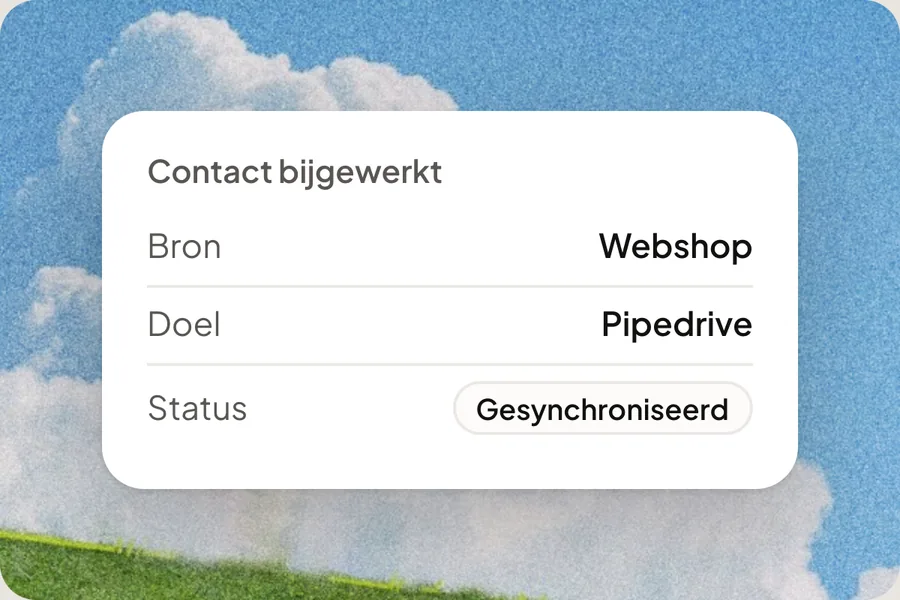
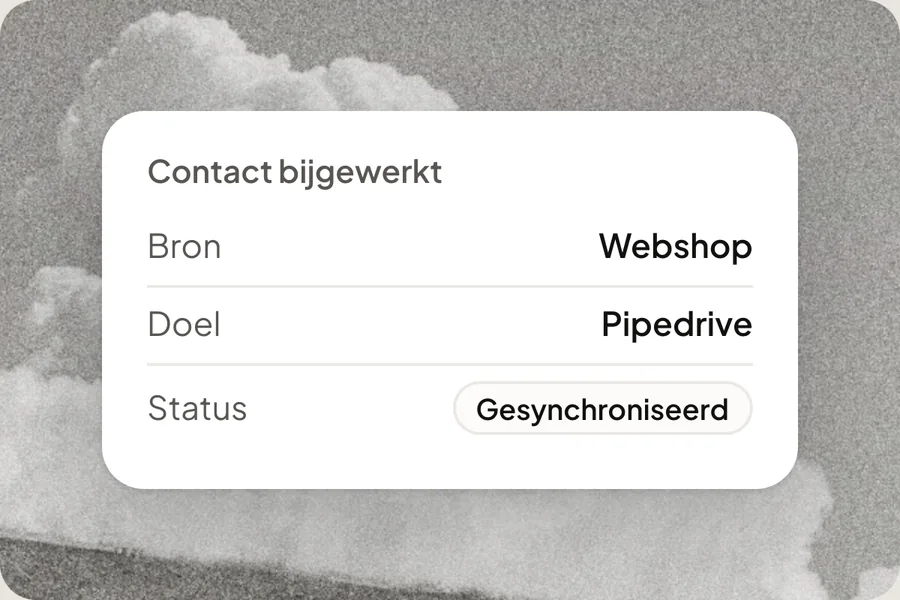
Agent-page branche tabs review round + homepage slider photo to warm duotone
Agent pages (Sal's review of the branche tabs), both call-agent.html and
e-mail-agent.html:
- "Bekijk alle branches op de Templates-pagina →" moves from a section-
  level <p> below the tab block into each panel's copy column, directly
  under the button (new .pill-panel-copy .link-arrow rule: own line).
- Tighter crop: windows open 60px above the key node instead of a full
  node-gap of bare arrow. Call flows 400px tall (was 470); e-mail flows
  keep 470 but trimmed at the bottom.
- Branche tab heads get .icon-tile glyphs (wrench / scissors / shopping
  bag / utensils), same treatment as the page's cards.
- Voice agent hero sub rewritten in a different direct-response device:
  "Elke oproep wordt aangenomen. Ook op de ladder, in gesprek of na
  sluitingstijd. De agent plant de afspraak in of legt een terugbelverzoek
  vast. U belt terug wanneer het u uitkomt."

Homepage slider (Sal: "the colours pop, not consistent with the brand"):
the nine assets/workflows/*.webp re-rendered with the field/cloud photo
as a warm duotone in the site's own tokens (ink / ink-3 / bg), grain and
darkening unchanged, white UI cards untouched. Baked into the assets, no
runtime filter. The homepage is monochrome again.

style.css ?v= → 20260829-3 sitewide. QA'd in Chromium desktop and WebKit
iPhone: link/button alignment measured, panels intact, slider track
geometry unchanged (4,660px / 57s), all images decode.

Claude-Session: https://claude.ai/code/session_01Vn5QfdcwPwdgmnFrY9tAxf

diff --git a/call-agent.html b/call-agent.html
@@ -9,7 +9,7 @@
   <link rel="preconnect" href="https://fonts.googleapis.com" />
   <link rel="preconnect" href="https://fonts.gstatic.com" crossorigin />
   <link href="https://fonts.googleapis.com/css2?family=Plus+Jakarta+Sans:wght@400;500;600;700;800&family=Instrument+Serif:ital@1&family=Inter+Tight:wght@600;700&display=swap" rel="stylesheet" />
-  <link rel="stylesheet" href="css/style.css?v=20260829-2" />
+  <link rel="stylesheet" href="css/style.css?v=20260829-3" />
   <link rel="stylesheet" href="css/workflow-canvas.css?v=20260829-2" />
   <link rel="icon" href="assets/icon-192.png?v=20260804-3" />
   <link rel="shortcut icon" href="assets/icon-192.png?v=20260804-3" />
@@ -88,7 +88,7 @@
     <!-- ================= Hero ================= -->
     <section class="hero container lp-hero hero-tight-bottom">
       <h1>Nooit meer een gemiste oproep.</h1>
-      <p class="hero-sub">Geen nieuwe centrale. Geen extra personeel. Geen voicemail die niemand terugluistert.</p>
+      <p class="hero-sub">Elke oproep wordt aangenomen. Ook op de ladder, in gesprek of na sluitingstijd. De agent plant de afspraak in of legt een terugbelverzoek vast. U belt terug wanneer het u uitkomt.</p>
       <div class="hero-actions lp-cta-block">
         <a href="https://my.mowi.agency/aanmelden" class="btn-primary" data-event="Signup Click">Start gratis</a>
         <span class="lp-cta-micro">Geen betaalgegevens nodig.</span>
@@ -204,16 +204,17 @@
           <div class="pill-panels">
             <div class="pill-panel pill-panel-split" id="ca-loodgieter" role="tabpanel" aria-labelledby="tab-ca-loodgieter">
               <div class="pill-panel-copy">
-                <div class="pill-panel-copy-head"><div class="placeholder-icon" aria-hidden="true"></div><span>Loodgieter</span></div>
+                <div class="pill-panel-copy-head"><span class="icon-tile" aria-hidden="true"><svg viewBox="0 0 24 24" fill="none" stroke="currentColor" stroke-width="1.75" stroke-linecap="round" stroke-linejoin="round"><path d="M14.7 6.3a1 1 0 0 0 0 1.4l1.6 1.6a1 1 0 0 0 1.4 0l3.77-3.77a6 6 0 0 1-7.94 7.94l-6.91 6.91a2.12 2.12 0 0 1-3-3l6.91-6.91a6 6 0 0 1 7.94-7.94l-3.76 3.76z"/></svg></span><span>Loodgieter</span></div>
                 <h3>Spoed of afspraak, meteen herkend</h3>
                 <p>Neemt elke oproep aan, herkent een lekkage, storing of gaslucht en handelt dat als spoed af — voor een routineverzoek plant de agent zelf onderhoud of een keuring in.</p>
                 <a href="https://my.mowi.agency/aanmelden" class="btn-primary" data-event="Signup Click">Start gratis</a>
+                <a href="/templates" class="link-arrow">Bekijk alle branches op de Templates-pagina →</a>
               </div>
 
               <!-- Static workflow picture (generated, 2026-08-29): the call-agent.loodgieter flow from /templates,
                    verbatim content, cut off to its middle, no JS. Decorative — the copy on the left
                    says the same thing. Regenerate from templates.html rather than hand-editing. -->
-              <div class="wf-canvas wf-canvas-static pill-panel-visual" style="--wf-win:470px;--wf-off:510px" aria-hidden="true">
+              <div class="wf-canvas wf-canvas-static pill-panel-visual" style="--wf-win:400px;--wf-off:580px" aria-hidden="true">
                 <div class="wf-viewport"><div class="wf-stage" style="width:520px;height:1368px">
             <svg class="wf-edges" width="520" height="1368" aria-hidden="true">
               <defs>
@@ -277,16 +278,17 @@
             </div>
             <div class="pill-panel pill-panel-split" id="ca-kapper" role="tabpanel" aria-labelledby="tab-ca-kapper" hidden>
               <div class="pill-panel-copy">
-                <div class="pill-panel-copy-head"><div class="placeholder-icon" aria-hidden="true"></div><span>Kapper</span></div>
+                <div class="pill-panel-copy-head"><span class="icon-tile" aria-hidden="true"><svg viewBox="0 0 24 24" fill="none" stroke="currentColor" stroke-width="1.75" stroke-linecap="round" stroke-linejoin="round"><circle cx="6" cy="6" r="3"/><circle cx="6" cy="18" r="3"/><path d="M8.12 8.12 12 12M20 4 8.12 15.88M14.8 14.8 20 20"/></svg></span><span>Kapper</span></div>
                 <h3>Boekt de afspraak, of beantwoordt de vraag</h3>
                 <p>Vraagt welke behandeling het is en voor wie, checkt de beschikbaarheid en stelt zelf een tijd voor — of beantwoordt een vraag uit de kennisbank.</p>
                 <a href="https://my.mowi.agency/aanmelden" class="btn-primary" data-event="Signup Click">Start gratis</a>
+                <a href="/templates" class="link-arrow">Bekijk alle branches op de Templates-pagina →</a>
               </div>
 
               <!-- Static workflow picture (generated, 2026-08-29): the call-agent.kapper flow from /templates,
                    verbatim content, cut off to its middle, no JS. Decorative — the copy on the left
                    says the same thing. Regenerate from templates.html rather than hand-editing. -->
-              <div class="wf-canvas wf-canvas-static pill-panel-visual" style="--wf-win:470px;--wf-off:510px" aria-hidden="true">
+              <div class="wf-canvas wf-canvas-static pill-panel-visual" style="--wf-win:400px;--wf-off:580px" aria-hidden="true">
                 <div class="wf-viewport"><div class="wf-stage" style="width:520px;height:1368px">
             <svg class="wf-edges" width="520" height="1368" aria-hidden="true">
               <defs>
@@ -350,16 +352,17 @@
             </div>
             <div class="pill-panel pill-panel-split" id="ca-webshop" role="tabpanel" aria-labelledby="tab-ca-webshop" hidden>
               <div class="pill-panel-copy">
-                <div class="pill-panel-copy-head"><div class="placeholder-icon" aria-hidden="true"></div><span>Webshop</span></div>
+                <div class="pill-panel-copy-head"><span class="icon-tile" aria-hidden="true"><svg viewBox="0 0 24 24" fill="none" stroke="currentColor" stroke-width="1.75" stroke-linecap="round" stroke-linejoin="round"><path d="M6 2 3 6v14a2 2 0 0 0 2 2h14a2 2 0 0 0 2-2V6l-3-4Z"/><path d="M3 6h18M16 10a4 4 0 0 1-8 0"/></svg></span><span>Webshop</span></div>
                 <h3>Orderstatus, direct doorgegeven</h3>
                 <p>Vraagt naar het ordernummer of e-mailadres, zoekt de bestelling op en geeft de status direct door — wordt niets gevonden, dan legt de agent een terugbelverzoek vast.</p>
                 <a href="https://my.mowi.agency/aanmelden" class="btn-primary" data-event="Signup Click">Start gratis</a>
+                <a href="/templates" class="link-arrow">Bekijk alle branches op de Templates-pagina →</a>
               </div>
 
               <!-- Static workflow picture (generated, 2026-08-29): the call-agent.webshop flow from /templates,
                    verbatim content, cut off to its middle, no JS. Decorative — the copy on the left
                    says the same thing. Regenerate from templates.html rather than hand-editing. -->
-              <div class="wf-canvas wf-canvas-static pill-panel-visual" style="--wf-win:470px;--wf-off:710px" aria-hidden="true">
+              <div class="wf-canvas wf-canvas-static pill-panel-visual" style="--wf-win:400px;--wf-off:780px" aria-hidden="true">
                 <div class="wf-viewport"><div class="wf-stage" style="width:520px;height:1368px">
             <svg class="wf-edges" width="520" height="1368" aria-hidden="true">
               <defs>
@@ -423,16 +426,17 @@
             </div>
             <div class="pill-panel pill-panel-split" id="ca-horeca" role="tabpanel" aria-labelledby="tab-ca-horeca" hidden>
               <div class="pill-panel-copy">
-                <div class="pill-panel-copy-head"><div class="placeholder-icon" aria-hidden="true"></div><span>Horeca</span></div>
+                <div class="pill-panel-copy-head"><span class="icon-tile" aria-hidden="true"><svg viewBox="0 0 24 24" fill="none" stroke="currentColor" stroke-width="1.75" stroke-linecap="round" stroke-linejoin="round"><path d="M3 2v7c0 1.1.9 2 2 2h4a2 2 0 0 0 2-2V2M7 2v20M21 15V2a5 5 0 0 0-5 5v6c0 1.1.9 2 2 2h3Zm0 0v7"/></svg></span><span>Horeca</span></div>
                 <h3>Reservering, of een vraag over het menu</h3>
                 <p>Vraagt het aantal personen, datum en tijd en eventuele dieetwensen, en stelt zelf een tijd voor — of beantwoordt een vraag over het menu.</p>
                 <a href="https://my.mowi.agency/aanmelden" class="btn-primary" data-event="Signup Click">Start gratis</a>
+                <a href="/templates" class="link-arrow">Bekijk alle branches op de Templates-pagina →</a>
               </div>
 
               <!-- Static workflow picture (generated, 2026-08-29): the call-agent.horeca flow from /templates,
                    verbatim content, cut off to its middle, no JS. Decorative — the copy on the left
                    says the same thing. Regenerate from templates.html rather than hand-editing. -->
-              <div class="wf-canvas wf-canvas-static pill-panel-visual" style="--wf-win:470px;--wf-off:510px" aria-hidden="true">
+              <div class="wf-canvas wf-canvas-static pill-panel-visual" style="--wf-win:400px;--wf-off:580px" aria-hidden="true">
                 <div class="wf-viewport"><div class="wf-stage" style="width:520px;height:1368px">
             <svg class="wf-edges" width="520" height="1368" aria-hidden="true">
               <defs>
@@ -496,7 +500,6 @@
             </div>
           </div>
         </div>
-        <p class="section-sub" style="margin-top:2rem"><a href="/templates" class="link-arrow">Bekijk alle branches op de Templates-pagina →</a></p>
       </div>
     </section>
 

diff --git a/e-mail-agent.html b/e-mail-agent.html
@@ -9,7 +9,7 @@
   <link rel="preconnect" href="https://fonts.googleapis.com" />
   <link rel="preconnect" href="https://fonts.gstatic.com" crossorigin />
   <link href="https://fonts.googleapis.com/css2?family=Plus+Jakarta+Sans:wght@400;500;600;700;800&family=Instrument+Serif:ital@1&family=Inter+Tight:wght@600;700&display=swap" rel="stylesheet" />
-  <link rel="stylesheet" href="css/style.css?v=20260829-2" />
+  <link rel="stylesheet" href="css/style.css?v=20260829-3" />
   <link rel="stylesheet" href="css/workflow-canvas.css?v=20260829-2" />
   <link rel="icon" href="assets/icon-192.png?v=20260804-3" />
   <link rel="shortcut icon" href="assets/icon-192.png?v=20260804-3" />
@@ -201,16 +201,17 @@
           <div class="pill-panels">
             <div class="pill-panel pill-panel-split" id="em-loodgieter" role="tabpanel" aria-labelledby="tab-em-loodgieter">
               <div class="pill-panel-copy">
-                <div class="pill-panel-copy-head"><div class="placeholder-icon" aria-hidden="true"></div><span>Loodgieter</span></div>
+                <div class="pill-panel-copy-head"><span class="icon-tile" aria-hidden="true"><svg viewBox="0 0 24 24" fill="none" stroke="currentColor" stroke-width="1.75" stroke-linecap="round" stroke-linejoin="round"><path d="M14.7 6.3a1 1 0 0 0 0 1.4l1.6 1.6a1 1 0 0 0 1.4 0l3.77-3.77a6 6 0 0 1-7.94 7.94l-6.91 6.91a2.12 2.12 0 0 1-3-3l6.91-6.91a6 6 0 0 1 7.94-7.94l-3.76 3.76z"/></svg></span><span>Loodgieter</span></div>
                 <h3>Storing of offerte, meteen herkend</h3>
                 <p>Sorteert elke binnenkomende e-mail in de juiste map, herkent een offerteaanvraag en vraagt zelf de ontbrekende gegevens op, en meldt een storing of spoedgeval direct.</p>
                 <a href="https://my.mowi.agency/aanmelden" class="btn-primary" data-event="Signup Click">Start gratis</a>
+                <a href="/templates" class="link-arrow">Bekijk alle branches op de Templates-pagina →</a>
               </div>
 
               <!-- Static workflow picture (generated, 2026-08-29): the email-agent.loodgieter flow from /templates,
                    verbatim content, cut off to its middle, no JS. Decorative — the copy on the left
                    says the same thing. Regenerate from templates.html rather than hand-editing. -->
-              <div class="wf-canvas wf-canvas-static wf-canvas-static-wide pill-panel-visual" style="--wf-win:470px;--wf-off:200px" aria-hidden="true">
+              <div class="wf-canvas wf-canvas-static wf-canvas-static-wide pill-panel-visual" style="--wf-win:470px;--wf-off:180px" aria-hidden="true">
                 <div class="wf-viewport"><div class="wf-stage" style="width:760px;height:1168px">
             <svg class="wf-edges" width="760" height="1168" aria-hidden="true">
               <defs>
@@ -274,16 +275,17 @@
             </div>
             <div class="pill-panel pill-panel-split" id="em-kapper" role="tabpanel" aria-labelledby="tab-em-kapper" hidden>
               <div class="pill-panel-copy">
-                <div class="pill-panel-copy-head"><div class="placeholder-icon" aria-hidden="true"></div><span>Kapper</span></div>
+                <div class="pill-panel-copy-head"><span class="icon-tile" aria-hidden="true"><svg viewBox="0 0 24 24" fill="none" stroke="currentColor" stroke-width="1.75" stroke-linecap="round" stroke-linejoin="round"><circle cx="6" cy="6" r="3"/><circle cx="6" cy="18" r="3"/><path d="M8.12 8.12 12 12M20 4 8.12 15.88M14.8 14.8 20 20"/></svg></span><span>Kapper</span></div>
                 <h3>Veelgestelde vragen, meteen beantwoord</h3>
                 <p>Sorteert elke e-mail, schrijft een conceptantwoord voor veelgestelde vragen en houdt afspraakverzoeken apart klaar voor u.</p>
                 <a href="https://my.mowi.agency/aanmelden" class="btn-primary" data-event="Signup Click">Start gratis</a>
+                <a href="/templates" class="link-arrow">Bekijk alle branches op de Templates-pagina →</a>
               </div>
 
               <!-- Static workflow picture (generated, 2026-08-29): the email-agent.kapper flow from /templates,
                    verbatim content, cut off to its middle, no JS. Decorative — the copy on the left
                    says the same thing. Regenerate from templates.html rather than hand-editing. -->
-              <div class="wf-canvas wf-canvas-static wf-canvas-static-wide pill-panel-visual" style="--wf-win:470px;--wf-off:200px" aria-hidden="true">
+              <div class="wf-canvas wf-canvas-static wf-canvas-static-wide pill-panel-visual" style="--wf-win:470px;--wf-off:180px" aria-hidden="true">
                 <div class="wf-viewport"><div class="wf-stage" style="width:760px;height:1168px">
             <svg class="wf-edges" width="760" height="1168" aria-hidden="true">
               <defs>
@@ -347,16 +349,17 @@
             </div>
             <div class="pill-panel pill-panel-split" id="em-webshop" role="tabpanel" aria-labelledby="tab-em-webshop" hidden>
               <div class="pill-panel-copy">
-                <div class="pill-panel-copy-head"><div class="placeholder-icon" aria-hidden="true"></div><span>Webshop</span></div>
+                <div class="pill-panel-copy-head"><span class="icon-tile" aria-hidden="true"><svg viewBox="0 0 24 24" fill="none" stroke="currentColor" stroke-width="1.75" stroke-linecap="round" stroke-linejoin="round"><path d="M6 2 3 6v14a2 2 0 0 0 2 2h14a2 2 0 0 0 2-2V6l-3-4Z"/><path d="M3 6h18M16 10a4 4 0 0 1-8 0"/></svg></span><span>Webshop</span></div>
                 <h3>Geen klacht blijft liggen</h3>
                 <p>Sorteert elke e-mail, vraagt zelf het ordernummer op bij een onvolledige vraag, en meldt een klacht direct in plaats van hem te laten liggen.</p>
                 <a href="https://my.mowi.agency/aanmelden" class="btn-primary" data-event="Signup Click">Start gratis</a>
+                <a href="/templates" class="link-arrow">Bekijk alle branches op de Templates-pagina →</a>
               </div>
 
               <!-- Static workflow picture (generated, 2026-08-29): the email-agent.webshop flow from /templates,
                    verbatim content, cut off to its middle, no JS. Decorative — the copy on the left
                    says the same thing. Regenerate from templates.html rather than hand-editing. -->
-              <div class="wf-canvas wf-canvas-static wf-canvas-static-wide pill-panel-visual" style="--wf-win:470px;--wf-off:200px" aria-hidden="true">
+              <div class="wf-canvas wf-canvas-static wf-canvas-static-wide pill-panel-visual" style="--wf-win:470px;--wf-off:180px" aria-hidden="true">
                 <div class="wf-viewport"><div class="wf-stage" style="width:760px;height:1168px">
             <svg class="wf-edges" width="760" height="1168" aria-hidden="true">
               <defs>
@@ -420,16 +423,17 @@
             </div>
             <div class="pill-panel pill-panel-split" id="em-horeca" role="tabpanel" aria-labelledby="tab-em-horeca" hidden>
               <div class="pill-panel-copy">
-                <div class="pill-panel-copy-head"><div class="placeholder-icon" aria-hidden="true"></div><span>Horeca</span></div>
+                <div class="pill-panel-copy-head"><span class="icon-tile" aria-hidden="true"><svg viewBox="0 0 24 24" fill="none" stroke="currentColor" stroke-width="1.75" stroke-linecap="round" stroke-linejoin="round"><path d="M3 2v7c0 1.1.9 2 2 2h4a2 2 0 0 0 2-2V2M7 2v20M21 15V2a5 5 0 0 0-5 5v6c0 1.1.9 2 2 2h3Zm0 0v7"/></svg></span><span>Horeca</span></div>
                 <h3>Reserveringen apart gehouden</h3>
                 <p>Sorteert elke e-mail, schrijft een conceptantwoord voor veelgestelde vragen en houdt reserveringsverzoeken apart klaar voor u.</p>
                 <a href="https://my.mowi.agency/aanmelden" class="btn-primary" data-event="Signup Click">Start gratis</a>
+                <a href="/templates" class="link-arrow">Bekijk alle branches op de Templates-pagina →</a>
               </div>
 
               <!-- Static workflow picture (generated, 2026-08-29): the email-agent.horeca flow from /templates,
                    verbatim content, cut off to its middle, no JS. Decorative — the copy on the left
                    says the same thing. Regenerate from templates.html rather than hand-editing. -->
-              <div class="wf-canvas wf-canvas-static wf-canvas-static-wide pill-panel-visual" style="--wf-win:470px;--wf-off:200px" aria-hidden="true">
+              <div class="wf-canvas wf-canvas-static wf-canvas-static-wide pill-panel-visual" style="--wf-win:470px;--wf-off:180px" aria-hidden="true">
                 <div class="wf-viewport"><div class="wf-stage" style="width:760px;height:1168px">
             <svg class="wf-edges" width="760" height="1168" aria-hidden="true">
               <defs>
@@ -493,7 +497,6 @@
             </div>
           </div>
         </div>
-        <p class="section-sub" style="margin-top:2rem"><a href="/templates" class="link-arrow">Bekijk alle branches op de Templates-pagina →</a></p>
       </div>
     </section>
 

diff --git a/css/style.css b/css/style.css
@@ -1226,6 +1226,11 @@ main { flex: 1 0 auto; }
 .pill-panel-copy h3 { font-size: 1.375rem; line-height: 1.25; }
 .pill-panel-copy p { font-size: 1rem; color: var(--ink-2); margin-top: 0.875rem; max-width: 30rem; }
 .pill-panel-copy .btn-primary { margin-top: 1.5rem; }
+/* A secondary link directly under the panel's button (agent pages' branche
+   tabs, 2026-08-29: "Bekijk alle branches op de Templates-pagina →" used to sit
+   below the whole tab block, far from the CTA it belongs with; Sal: "align it
+   under the button"). Own line, own width, so it never rides beside the pill. */
+.pill-panel-copy .link-arrow { display: block; width: max-content; max-width: 100%; margin-top: 1.25rem; }
 .pill-panel-visual { min-height: 320px; }
 @media (max-width: 63.9rem) {
   .pill-panel-split { grid-template-columns: minmax(0, 1fr); gap: 1.5rem; }

diff --git a/index.html b/index.html
@@ -9,7 +9,7 @@
   <link rel="preconnect" href="https://fonts.googleapis.com" />
   <link rel="preconnect" href="https://fonts.gstatic.com" crossorigin />
   <link href="https://fonts.googleapis.com/css2?family=Plus+Jakarta+Sans:wght@400;500;600;700;800&family=Instrument+Serif:ital@1&family=Inter+Tight:wght@600;700&display=swap" rel="stylesheet" />
-  <link rel="stylesheet" href="css/style.css?v=20260829-2" />
+  <link rel="stylesheet" href="css/style.css?v=20260829-3" />
   <!-- Static workflow pictures in the "Eén platform" tabs — styles only, the
        canvas JS is deliberately not loaded here (see css/workflow-canvas.css,
        "Static variant"). Bump this ?v= together with templates.html's. -->

diff --git a/blog/agent-maakt-een-fout.html b/blog/agent-maakt-een-fout.html
@@ -19,7 +19,7 @@
   <link rel="preconnect" href="https://fonts.googleapis.com" />
   <link rel="preconnect" href="https://fonts.gstatic.com" crossorigin />
   <link href="https://fonts.googleapis.com/css2?family=Plus+Jakarta+Sans:wght@400;500;600;700;800&family=Instrument+Serif:ital@1&family=Inter+Tight:wght@600;700&display=swap" rel="stylesheet" />
-  <link rel="stylesheet" href="/css/style.css?v=20260829-2" />
+  <link rel="stylesheet" href="/css/style.css?v=20260829-3" />
   <link rel="icon" href="/assets/icon-192.png?v=20260804-3" />
   <link rel="shortcut icon" href="/assets/icon-192.png?v=20260804-3" />
   <link rel="apple-touch-icon" href="/assets/apple-icon-180.png?v=20260804-3" />

diff --git a/blog/ai-agent-of-medewerker.html b/blog/ai-agent-of-medewerker.html
@@ -19,7 +19,7 @@
   <link rel="preconnect" href="https://fonts.googleapis.com" />
   <link rel="preconnect" href="https://fonts.gstatic.com" crossorigin />
   <link href="https://fonts.googleapis.com/css2?family=Plus+Jakarta+Sans:wght@400;500;600;700;800&family=Instrument+Serif:ital@1&family=Inter+Tight:wght@600;700&display=swap" rel="stylesheet" />
-  <link rel="stylesheet" href="/css/style.css?v=20260829-2" />
+  <link rel="stylesheet" href="/css/style.css?v=20260829-3" />
   <link rel="icon" href="/assets/icon-192.png?v=20260804-3" />
   <link rel="shortcut icon" href="/assets/icon-192.png?v=20260804-3" />
   <link rel="apple-touch-icon" href="/assets/apple-icon-180.png?v=20260804-3" />

diff --git a/blog/e-mail-automatisch-beantwoorden.html b/blog/e-mail-automatisch-beantwoorden.html
@@ -19,7 +19,7 @@
   <link rel="preconnect" href="https://fonts.googleapis.com" />
   <link rel="preconnect" href="https://fonts.gstatic.com" crossorigin />
   <link href="https://fonts.googleapis.com/css2?family=Plus+Jakarta+Sans:wght@400;500;600;700;800&family=Instrument+Serif:ital@1&family=Inter+Tight:wght@600;700&display=swap" rel="stylesheet" />
-  <link rel="stylesheet" href="/css/style.css?v=20260829-2" />
+  <link rel="stylesheet" href="/css/style.css?v=20260829-3" />
   <link rel="icon" href="/assets/icon-192.png?v=20260804-3" />
   <link rel="shortcut icon" href="/assets/icon-192.png?v=20260804-3" />
   <link rel="apple-touch-icon" href="/assets/apple-icon-180.png?v=20260804-3" />

diff --git a/blog/index.html b/blog/index.html
@@ -9,7 +9,7 @@
   <link rel="preconnect" href="https://fonts.googleapis.com" />
   <link rel="preconnect" href="https://fonts.gstatic.com" crossorigin />
   <link href="https://fonts.googleapis.com/css2?family=Plus+Jakarta+Sans:wght@400;500;600;700;800&family=Instrument+Serif:ital@1&family=Inter+Tight:wght@600;700&display=swap" rel="stylesheet" />
-  <link rel="stylesheet" href="/css/style.css?v=20260829-2" />
+  <link rel="stylesheet" href="/css/style.css?v=20260829-3" />
   <link rel="icon" href="/assets/icon-192.png?v=20260804-3" />
   <link rel="shortcut icon" href="/assets/icon-192.png?v=20260804-3" />
   <link rel="apple-touch-icon" href="/assets/apple-icon-180.png?v=20260804-3" />

diff --git a/bedrijfsgegevens.html b/bedrijfsgegevens.html
@@ -17,7 +17,7 @@
   <link rel="preconnect" href="https://fonts.googleapis.com" />
   <link rel="preconnect" href="https://fonts.gstatic.com" crossorigin />
   <link href="https://fonts.googleapis.com/css2?family=Plus+Jakarta+Sans:wght@400;500;600;700;800&family=Instrument+Serif:ital@1&family=Inter+Tight:wght@600;700&display=swap" rel="stylesheet" />
-  <link rel="stylesheet" href="css/style.css?v=20260829-2" />
+  <link rel="stylesheet" href="css/style.css?v=20260829-3" />
   <link rel="icon" href="assets/icon-192.png?v=20260804-3" />
   <link rel="shortcut icon" href="assets/icon-192.png?v=20260804-3" />
   <link rel="apple-touch-icon" href="assets/apple-icon-180.png?v=20260804-3" />

diff --git a/ai-transparantie.html b/ai-transparantie.html
@@ -9,7 +9,7 @@
   <link rel="preconnect" href="https://fonts.googleapis.com" />
   <link rel="preconnect" href="https://fonts.gstatic.com" crossorigin />
   <link href="https://fonts.googleapis.com/css2?family=Plus+Jakarta+Sans:wght@400;500;600;700;800&family=Instrument+Serif:ital@1&family=Inter+Tight:wght@600;700&display=swap" rel="stylesheet" />
-  <link rel="stylesheet" href="css/style.css?v=20260829-2" />
+  <link rel="stylesheet" href="css/style.css?v=20260829-3" />
   <link rel="icon" href="assets/icon-192.png?v=20260804-3" />
   <link rel="shortcut icon" href="assets/icon-192.png?v=20260804-3" />
   <link rel="apple-touch-icon" href="assets/apple-icon-180.png?v=20260804-3" />

diff --git a/algemene-voorwaarden.html b/algemene-voorwaarden.html
@@ -9,7 +9,7 @@
   <link rel="preconnect" href="https://fonts.googleapis.com" />
   <link rel="preconnect" href="https://fonts.gstatic.com" crossorigin />
   <link href="https://fonts.googleapis.com/css2?family=Plus+Jakarta+Sans:wght@400;500;600;700;800&family=Instrument+Serif:ital@1&family=Inter+Tight:wght@600;700&display=swap" rel="stylesheet" />
-  <link rel="stylesheet" href="css/style.css?v=20260829-2" />
+  <link rel="stylesheet" href="css/style.css?v=20260829-3" />
   <link rel="icon" href="assets/icon-192.png?v=20260804-3" />
   <link rel="shortcut icon" href="assets/icon-192.png?v=20260804-3" />
   <link rel="apple-touch-icon" href="assets/apple-icon-180.png?v=20260804-3" />

diff --git a/cookies.html b/cookies.html
@@ -9,7 +9,7 @@
   <link rel="preconnect" href="https://fonts.googleapis.com" />
   <link rel="preconnect" href="https://fonts.gstatic.com" crossorigin />
   <link href="https://fonts.googleapis.com/css2?family=Plus+Jakarta+Sans:wght@400;500;600;700;800&family=Instrument+Serif:ital@1&family=Inter+Tight:wght@600;700&display=swap" rel="stylesheet" />
-  <link rel="stylesheet" href="css/style.css?v=20260829-2" />
+  <link rel="stylesheet" href="css/style.css?v=20260829-3" />
   <link rel="icon" href="assets/icon-192.png?v=20260804-3" />
   <link rel="shortcut icon" href="assets/icon-192.png?v=20260804-3" />
   <link rel="apple-touch-icon" href="assets/apple-icon-180.png?v=20260804-3" />
